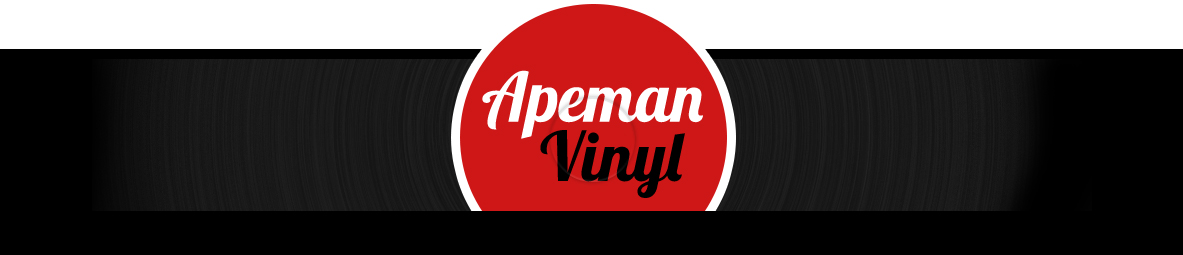
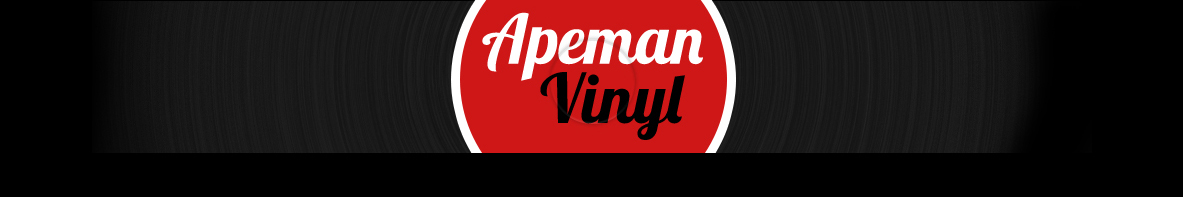
bug fixes

Changed region(s): [[0.0, 0.0, 1.0, 0.8528]]

diff --git a/apereview/library/css/apestyle.css b/apereview/library/css/apestyle.css
@@ -10,26 +10,42 @@
 
 }
 
+@media (max-width: 767px) {
+    .header_social{display:none;}
+}
+
 /* basic layout */
 body{
-    background:url('../img/wooden_floor_bg.jpg') top center repeat;
+    background:url('../img/wooden_floor_bg.jpg') top center repeat;  background-attachment:fixed;
 }
-header{background:#000 url('../img/masthead.jpg') center top no-repeat; min-height:255px; width:100%; position:relative;}
+
+p{ line-height:26px;}
+
+header{background:#000 url('../img/masthead.jpg') center top no-repeat; min-height:197px; width:100%; position:relative;}
 footer{background:#000; min-height:50px; width:100%; position:relative; margin-top:2em;}
 
 /* typography  */
 h1 {font: 48px 'LeagueGothicRegular', Arial, sans-serif;letter-spacing: 0; color:#fff;}
 h2 {font: 30px 'LeagueGothicRegular', Arial, sans-serif;letter-spacing: 0; color:#cc1b21;}
-h3 {font: 25px 'LeagueGothicRegular', Arial, sans-serif;letter-spacing: 0; color:#000;}
+h3 {font: 25px 'LeagueGothicRegular', Arial, sans-serif;letter-spacing: 0; color:#333;}
 
-.black{color:#000;}
+.black{color:#333;}
 .red{color:#cc1b21;}
 
-body {font-family:Minion-Pro-1, Minion-Pro-2, Georgia, "Times New Roman",Serif; font-size:16px; line-height:24px; color:#000;}
+body {font-family:Minion-Pro-1, Minion-Pro-2, Georgia, "Times New Roman",Serif; font-size:16px; line-height:24px; color:#333;}
 
 a{color:#208fd5; font-weight:bold;}
 a:hover{color:#186798;}
 h1 a, h2 a, h3 a, h4 a {font-weight:normal;}
+
+/*shadows*/
+
+header, .review_pod, .right_col{
+-webkit-box-shadow: 0px 8px 10px rgba(0, 0, 0, 0.5);
+-moz-box-shadow:    0px 8px 10px rgba(0, 0, 0, 0.5);
+box-shadow:         0px 8px 10px rgba(0, 0, 0, 0.5);
+}
+
 
 /* nav */
 .navcontainer{position: absolute;bottom: 0;height: 40px;width: 100%; text-align:center;}
@@ -45,10 +61,11 @@ ul.nav li a:hover {background-color:#000;}
 
 .review_image{height:360px; margin:1em; }
 .review_meta{background:#fff; margin-top:180px; display: inline-block; width:80%; min-height:100px;}
-.review_meta h2.album_title{color:#000;}
-.review_meta h3.album_artist{color:#cc1b21; font: 30px 'LeagueGothicRegular', Arial, sans-serif;}
+.review_meta h2.album_title{color:#333; margin-bottom:0.1em;}
+.review_meta h3.album_artist{color:#cc1b21; font: 30px 'LeagueGothicRegular', Arial, sans-serif; margin-top:0px; margin-bottom:0.1em;}
 
 .review_body {margin:1em;}
+.review_body p {min-height:132px;}
 .more_button{float:right;}
 
 /* awkward button color */
@@ -82,7 +99,7 @@ ul.social li a.apeman_twit{background-position:-46px 0px}
 ul.social li a.apeman_tumblr{background-position:-92px 0px}
 
 
-.header_social{text-align:right; margin-top:85px;}
+.header_social{text-align:right; margin-top:35px;}
 .header_social .follow{color:#fff; margin-bottom:5px;}
 
 /* right col */
@@ -112,7 +129,7 @@ ul.category_nav li{float:left; margin:0.5em 0; width:100%; list-style:none;}
 .staff_page .staff_meta {background:#fff; padding-left:1em; display: inline-block; margin-top:170px; clear:left; float:left; width:40%; min-width:190px;} 
 .staff_body {margin:1em;}
 
-.staff_meta h2.album_title{color:#000;}
+.staff_meta h2.album_title{color:#333;}
 .staff_meta h3.album_artist{color:#cc1b21; font: 30px 'LeagueGothicRegular', Arial, sans-serif;}
 
 .noreviews{margin-left:0.5em; margin-bottom:5em;}

diff --git a/apereview/templates/index.html b/apereview/templates/index.html
@@ -21,23 +21,24 @@
           {% include "includes/categories.html" %}
       </div>
     </div>
-    
-    
-        {% for r in reviews %}
-          <div class="review_pod span4">
-              <div class="review_image" style='background:url({% if r.album_image %}{% thumbnail r.album_image 360x360 crop %}{% else %}{{STATIC_URL}}img/no_cover.png{% endif %}) no-repeat top center'>
-                    <div class="review_meta">
-                        <h2 class="album_title">{{r.album}}</h2>
-                        <h3 class="album_artist">{{r.artist}}</h3>
-                        <p>by <a href="/staff/{{r.reviewer.pk}}">{{r.reviewer}}</a></p>
-                    </div>
-              </div>
-              <div class="review_body clearfix">
-                  <p>{{r.review|striptags|safe|truncatechars:200}}</p>
-                <a class="btn btn-blue more_button" href="/reviews/{{r.pk}}">Read more</a> 
-              </div>
-            </div>
-        {% endfor %}
-
+    <div class="span8">
+        <div class="row">
+            {% for r in reviews %}
+              <div class="review_pod span4">
+                  <div class="review_image" style='background:url({% if r.album_image %}{% thumbnail r.album_image 360x360 crop %}{% else %}{{STATIC_URL}}img/no_cover.png{% endif %}) no-repeat top center'>
+                        <div class="review_meta">
+                            <h2 class="album_title">{{r.album}}</h2>
+                            <h3 class="album_artist">{{r.artist}}</h3>
+                            <p>by <a href="/staff/{{r.reviewer.pk}}">{{r.reviewer}}</a></p>
+                        </div>
+                  </div>
+                  <div class="review_body clearfix">
+                      <p class="review_pod_text">{{r.review|striptags|safe|truncatechars:200}}</p>
+                    <a class="btn btn-blue more_button" href="/reviews/{{r.pk}}">Read more</a> 
+                  </div>
+                </div>
+            {% endfor %}
+        </div>
+    </div>
 </div>    
 {% endblock "main" %}

diff --git a/apereview/templates/list_reviews.html b/apereview/templates/list_reviews.html
@@ -24,22 +24,24 @@
       </div>
     </div>
     
-    
-        {% for r in reviews %}
-          <div class="review_pod span4">
-              <div class="review_image" style='background:url({% if r.album_image %}{% thumbnail r.album_image 360x360 crop %}{% else %}{{STATIC_URL}}img/no_cover.png{% endif %}) no-repeat top center'>
-                    <div class="review_meta">
-                        <h2 class="album_title">{{r.album}}</h2>
-                        <h3 class="album_artist">{{r.artist}}</h3>
-                        <p>by <a href="/staff/{{r.reviewer.pk}}">{{r.reviewer}}</a></p>
-                    </div>
-              </div>
-              <div class="review_body clearfix">
-                  <p>{{r.review|striptags|safe|truncatechars:200}}</p>
-                <a class="btn btn-blue more_button" href="/reviews/{{r.pk}}">Read more</a> 
-              </div>
-            </div>
-        {% endfor %}
-
+    <div class="span8">
+        <div class="row">
+            {% for r in reviews %}
+              <div class="review_pod span4">
+                  <div class="review_image" style='background:url({% if r.album_image %}{% thumbnail r.album_image 360x360 crop %}{% else %}{{STATIC_URL}}img/no_cover.png{% endif %}) no-repeat top center'>
+                        <div class="review_meta">
+                            <h2 class="album_title">{{r.album}}</h2>
+                            <h3 class="album_artist">{{r.artist}}</h3>
+                            <p>by <a href="/staff/{{r.reviewer.pk}}">{{r.reviewer}}</a></p>
+                        </div>
+                  </div>
+                  <div class="review_body clearfix">
+                      <p class="review_pod_text">{{r.review|striptags|safe|truncatechars:200}}</p>
+                    <a class="btn btn-blue more_button" href="/reviews/{{r.pk}}">Read more</a> 
+                  </div>
+                </div>
+            {% endfor %}
+        </div>
+    </div>
 </div>    
 {% endblock "main" %}

diff --git a/apereview/templates/personnel.html b/apereview/templates/personnel.html
@@ -53,8 +53,7 @@
                             </div>
                       </div>
                       <div class="review_body clearfix">
-                          <p>{{r.review|striptags|safe|truncatechars:200}}</p>
-                        <p>{{r.date_created}}</p>
+                          <p class="review_pod_text">{{r.review|striptags|safe|truncatechars:200}}</p>
                         <a class="btn btn-blue more_button" href="/reviews/{{r.pk}}">Read more</a> 
                       </div>
                     </div>

diff --git a/apereview/templates/base-templates/base.html b/apereview/templates/base-templates/base.html
@@ -58,9 +58,9 @@
                 <div class="navcontainer">
                 {% block "nav" %}
                 <ul class="nav">
-                    <li><a href="/">home</a></li>
+                    <li><a href="/">Home</a></li>
                     
-                    <li><a href="/reviews/">reviews</a></li>
+                    <li><a href="/reviews/">Reviews</a></li>
                 </ul>
                 {% endblock "nav" %}
                 </div>
